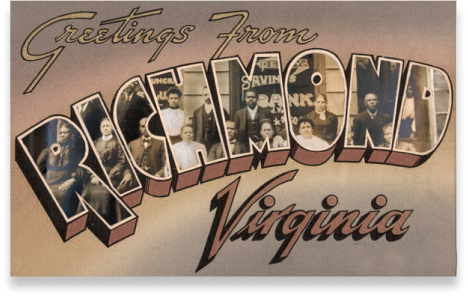
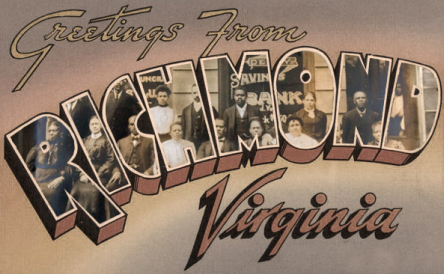
postcardInteraction

diff --git a/ThreeBlackWallStreets/src/script.js b/ThreeBlackWallStreets/src/script.js
@@ -122,16 +122,19 @@ const postcardDurhamMaterial = new THREE.MeshStandardMaterial({
     map: durhamPostcardBW
 })
 const postcardDurhamMesh = new THREE.Mesh( postcardGeometry, postcardDurhamMaterial )
+postcardDurhamMesh.name = 'durhamPostcard'
 
 const postcardTulsaMaterial = new THREE.MeshStandardMaterial({ 
     map: tulsaPostcardBW
 })
 const postcardTulsaMesh = new THREE.Mesh( postcardGeometry, postcardTulsaMaterial )
+postcardTulsaMesh.name = 'tulsaPostcard'
 
 const postcardRichmondMaterial = new THREE.MeshStandardMaterial({ 
     map: richmondPostcardBW
 })
 const postcardRichmondMesh = new THREE.Mesh( postcardGeometry, postcardRichmondMaterial )
+postcardRichmondMesh.name = 'richmondPostcard'
 
 postcardTulsaMesh.position.x = -7
 postcardRichmondMesh.position.x = 7
@@ -244,7 +247,7 @@ scene.add(camera)
 /**
  * MOUSE
  */
-const mouse = new THREE.Vector2()
+const mouse = new THREE.Vector2(0,0)
 window.addEventListener('mousemove', (e) => {
     mouse.x = e.clientX/sizes.width * 2 -1
     mouse.y = -(e.clientY/sizes.height * 2 -1)
@@ -298,6 +301,7 @@ renderer.setSize(sizes.width, sizes.height)
 renderer.setPixelRatio(Math.min(window.devicePixelRatio, 2))
 
 let currentIntersects = null
+let placeholder = new THREE.Object3D // this is a hack so that the default of the raycaster doesnt start trigered
 
 // gui.add( params, 'toneMapping', Object.keys( toneMappingOptions )).onChange( function () {
 
@@ -324,25 +328,38 @@ const tick = () =>
     raycaster.setFromCamera(mouse, camera)
 
 
-    const objectsToTest = [ postcardDurhamMesh, postcardRichmondMesh, postcardTulsaMesh ]
+    const objectsToTest = [ placeholder, postcardDurhamMesh, postcardRichmondMesh, postcardTulsaMesh ]
     const intersects = raycaster.intersectObjects(objectsToTest)
-
+    
     
    
     // for(const thing of objectsToTest){
     //     thing.material.color.set('#ffffff')
     // }
+
     // for(const intersect of intersects){
     //     intersect.object.material.color.set('#00ff00')
     // }
+    
 
     if(intersects.length){
             
         if(currentIntersects === null){
-            console.log('in');
-            postcardDurhamMesh.material.map= durhamPostcardColor
-            postcardRichmondMesh.material.map= richmondPostcardColor
-            postcardTulsaMesh.material.map= tulsaPostcardColor
+            console.log('in')
+            console.log(intersects)
+            
+
+            if(intersects[0].object.name === 'durhamPostcard') {
+                postcardDurhamMesh.material.map= durhamPostcardColor
+            }
+            if(intersects[0]===postcardRichmondMesh) {
+                postcardRichmondMesh.material.map= richmondPostcardColor
+            }
+            if(intersects[0]===postcardTulsaMesh) {
+                postcardTulsaMesh.material.map= tulsaPostcardColor
+            }
+            
+           
         }
         currentIntersects = intersects[0]
        //console.log(intersects.object);
